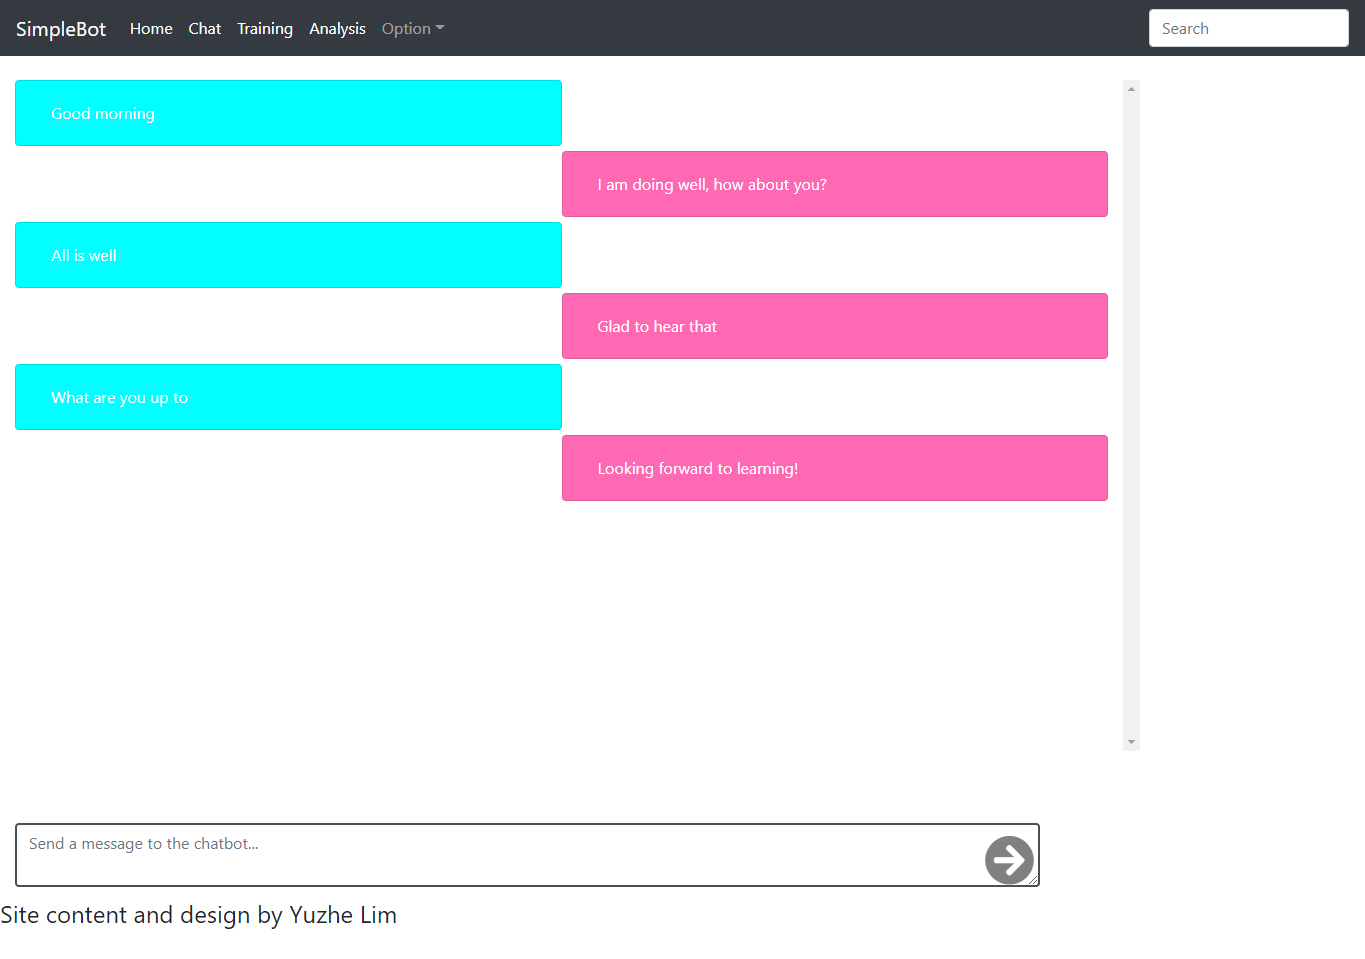
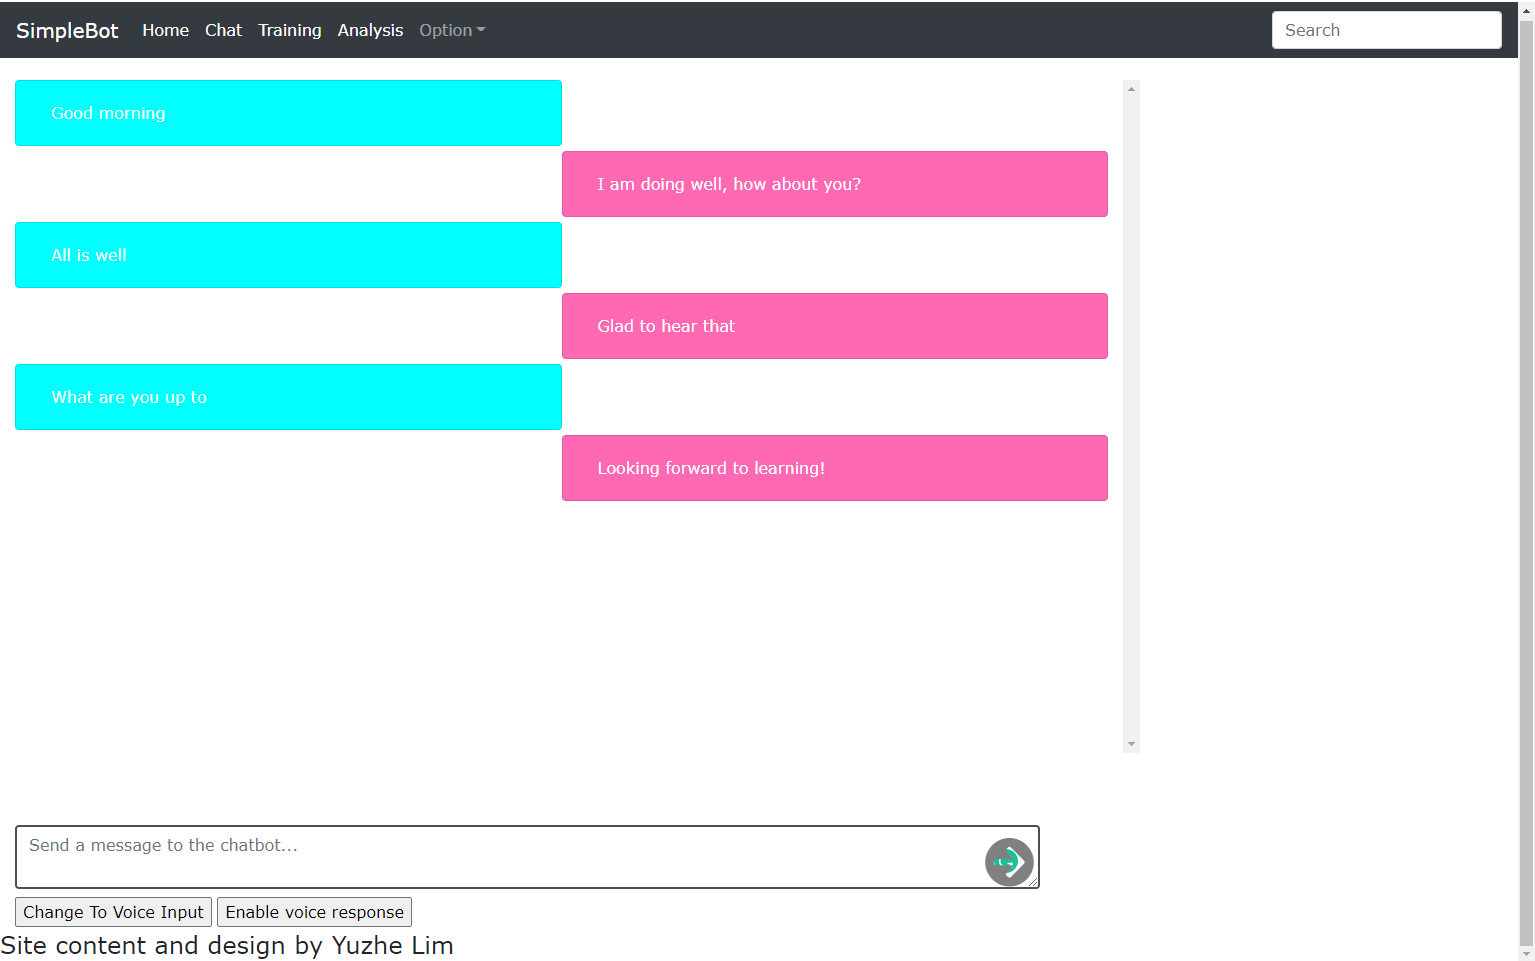
Add new voice input, charts and pivot table screenshots to README

diff --git a/README.md b/README.md
@@ -12,7 +12,7 @@ Features Offer:
 
 * 3: Built-in data analytics and visualization tools
 
-* 4: Simple UI for viewing mySQL data
+* 4: Simple UI for viewing MySQL data
 
 * 5: Administrator management tools
 
@@ -23,10 +23,14 @@ Features Offer:
 [image1]: ./README_media/homepage.png "Screenshot of homepage"
 [image2]: ./README_media/chatbot-page.png "Screenshot of chatbot conversation"
 [image3]: ./README_media/training_page.png "Screenshot of training page"
-[image4]: ./README_media/analysis_page.png "Screenshot of visualization page"
+[image4]: ./README_media/voice_input.png "Screenshot of chatbot conversation with voice input"
 [image5]: ./README_media/admin_page1.png "Screenshot of admin login"
 [image6]: ./README_media/admin_page2.png "Screenshot of admin page"
-[image7]: ./README_media/mysql.PNG "Screenshot of mysql server"
+[image7]: ./README_media/mysql.PNG "Screenshot of MySQL server"
+[image8]: ./README_media/barchart.PNG "Bar chart of visualization page"
+[image9]: ./README_media/linechart.PNG "Line chart of visualization page"
+[image10]: ./README_media/piechart.PNG "Pie chart of visualization page"
+[image11]: ./README_media/pivot_table.PNG "Pivot Table of visualization page"
 
 ---
 ## Preview
@@ -35,13 +39,26 @@ Features Offer:
 ![alt text][image1]
 
 ### 2. Chatbot conversation page
+#### Text Input
 ![alt text][image2]
+#### Voice Input
+![alt text][image4]
 
 ### 3. Training page
 ![alt text][image3]
 
 ### 4. Data visualization and analytics page
-![alt text][image4]
+#### Bar Chart
+![alt text][image8]
+
+#### Line Chart
+![alt text][image9]
+
+#### Pie Chart
+![alt text][image10]
+
+#### Pivot Table
+![alt text][image11]
 
 ### 5. Administrator management login
 ![alt text][image5]
